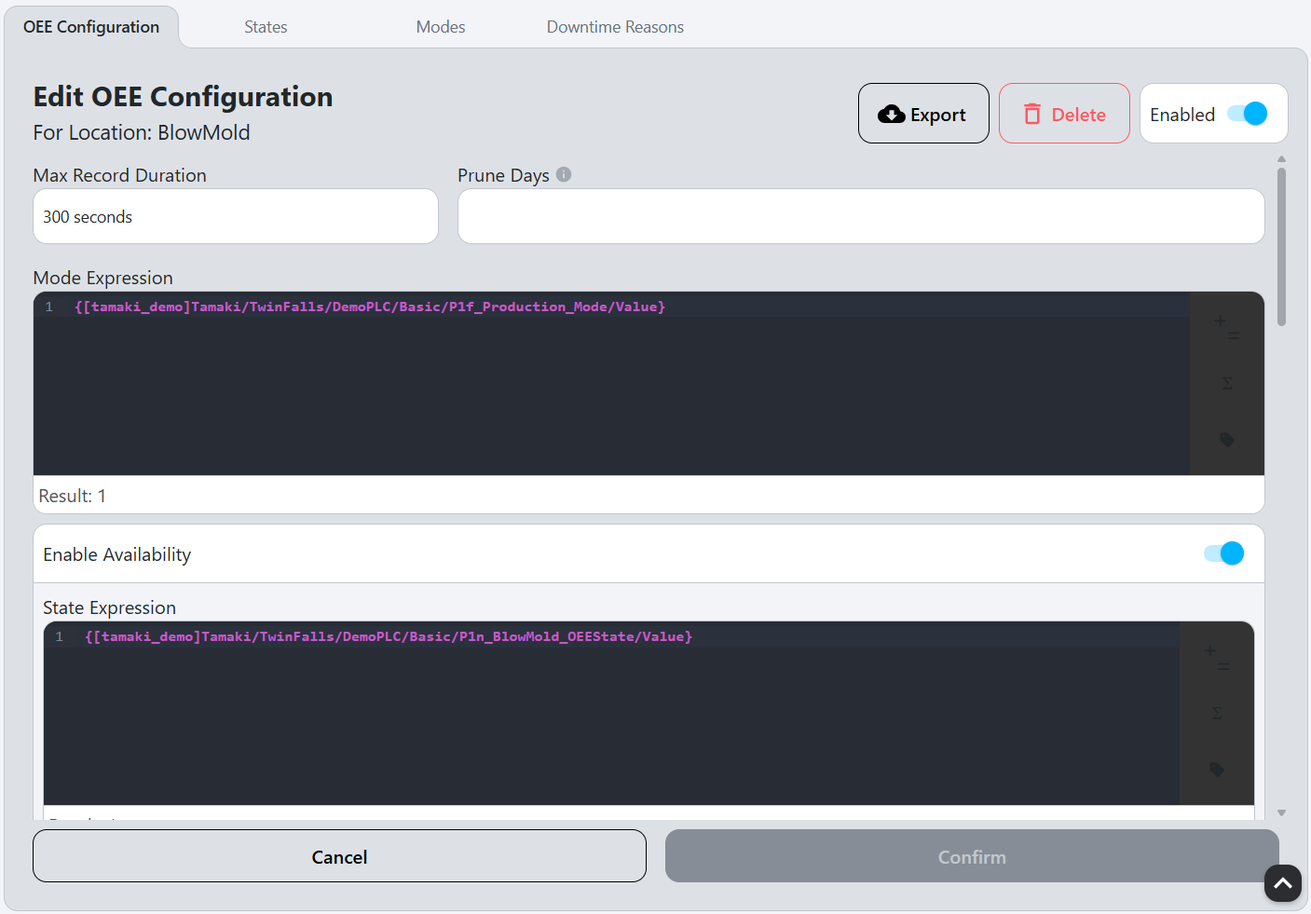
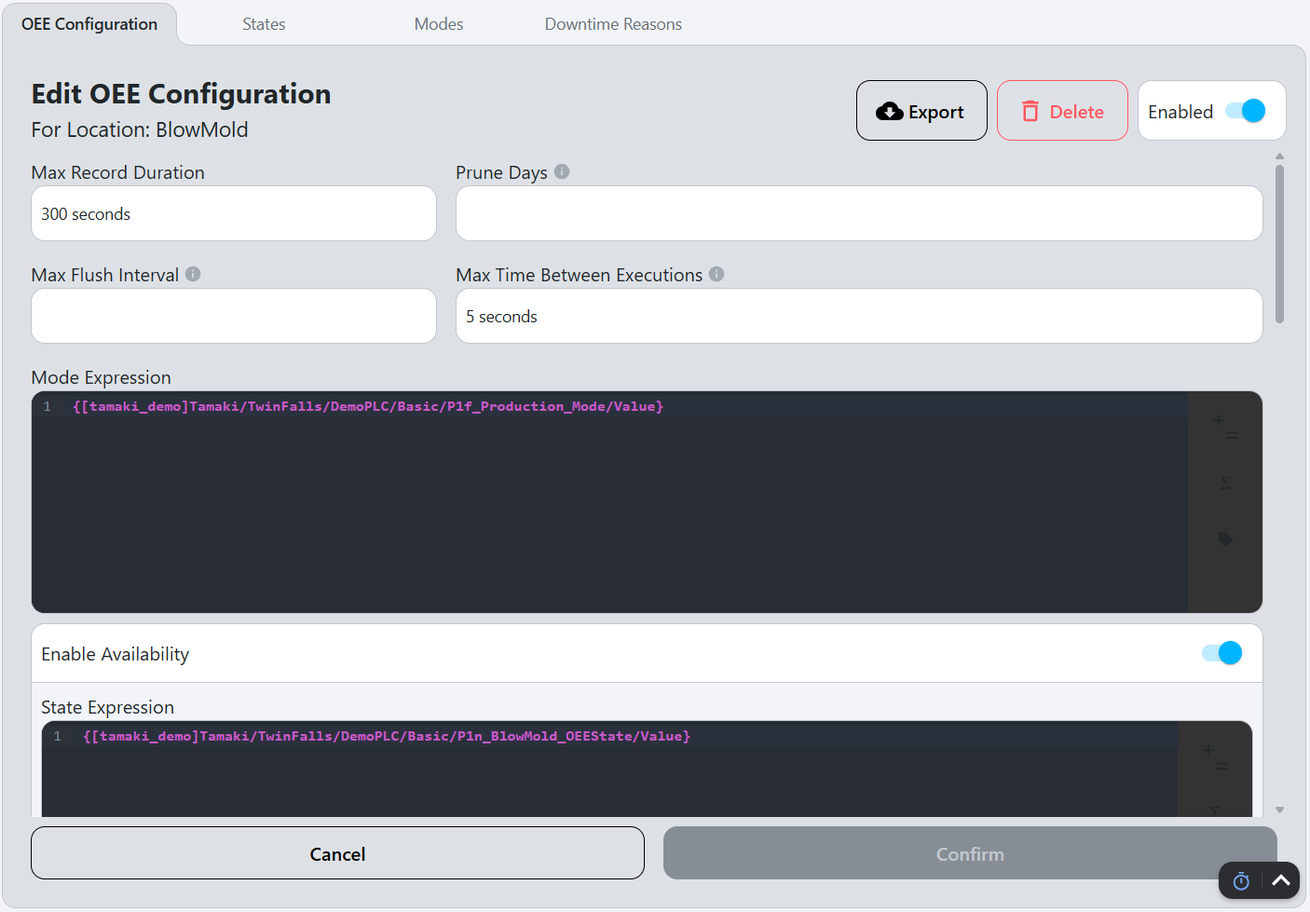
removed mention of DIRECT calc type. added Max Flush Interval and Max Time Between Executions fields to the OEE user guide.

diff --git a/docs/appendix/script-api/inventory-operation-script-api/save-inventory-operation.md b/docs/appendix/script-api/inventory-operation-script-api/save-inventory-operation.md
@@ -18,52 +18,52 @@ system.mes.inventory.operation.saveInventoryOperation(**inventory_operation_data
 
 ## Parameters
 
-| Parameter                         | Type            | Description                                                                                                        |
-| --------------------------------- | --------------- | ------------------------------------------------------------------------------------------------------------------ |
-| `operationId`                     | `String` (ULID) | The ULID of the operation associated with this inventory operation.                                                |
-| `operationName`                   | `String`        | The name of the operation associated with this inventory operation.                                                |
-| `name`                            | `String`        | The name of the inventory operation.                                                                               |
-| `status`                          | `String`        | The status of the inventory operation.                                                                             |
-| `currentRecordId`                 | `String` (ULID) | The ULID of the current inventory lot record associated with this inventory operation.                             |
-| `operationType`                   | `String`        | The type of operation record for this inventory operation.                                                         |
-| `triggerSource`                   | `String`        | The ways that the various inventory operations can trigger.                                                        |
-| `startTriggerExpression`          | `String`        | The Ignition expression to trigger the start of the transfer of materials.                                         |
-| `startTriggerType`                | `String`        | The trigger type when starting the transfer of materials.                                                          |
-| `stopTriggerExpression`           | `String`        | The Ignition expression to trigger the end of the transfer of materials.                                           |
-| `stopTriggerType`                 | `String`        | The trigger type when stopping the transfer of materials.                                                          |
-| `sourceLocationId`                | `String` (ULID) | The ULID of the location for movement source.                                                                      |
-| `sourceLocationPath`              | `String`        | The path of the location for movement source.                                                                      |
-| `destinationLocationId`           | `String` (ULID) | The ULID of the location for movement destination.                                                                 |
-| `destinationLocationPath`         | `String`        | The path of the location for movement destination.                                                                 |
-| `materialSource`                  | `String`        | The strategy used for resolving material ID for an operation.                                                      |
-| `materialId`                      | `String` (ULID) | The ULID of the material associated with the inventory operation.                                                  |
-| `materialPath`                    | `String`        | The path of the material associated with the inventory operation.                                                  |
-| `materialExpression`              | `String`        | The Ignition expression for the material associated with this inventory operation.                                 |
-| `primaryLotResolutionStrategy`    | `String`        | The resolution strategy to get the primary lot code.                                                               |
-| `secondaryLotResolutionStrategy`  | `String`        | The resolution strategy to get the secondary lot code.                                                             |
-| `primaryLotCodeExpression`        | `String`        | The Ignition expression to specify the primary lot code.                                                           |
-| `secondaryLotCodeExpression`      | `String`        | The Ignition expression to specify the secondary lot code.                                                         |
-| `createLotIfNotFound`             | `Boolean`       | Indicates if a lot should be created if it doesn't exist. Only used if operationType is CONSUME.                   |
-| `inventoryNameResolutionStrategy` | `String`        | The resolution strategy to get the inventory name.                                                                 |
-| `inventoryName`                   | `String`        | The name of the inventory associated with the inventory operation.                                                 |
-| `inventoryNameExpression`         | `String`        | The Ignition expression to specify the inventory name.                                                             |
-| `quantitySource`                  | `String`        | The source of the quantity of an inventory operation.                                                              |
-| `quantityExpression`              | `String`        | The Ignition expression to specify the quantity.                                                                   |
-| `quantityCalcType`                | `String`        | The calculation type for quantity. Only used if quantitySource is EXPRESSION.                                      |
-| `quantityOverflowValue`           | `String`        | The overflow value for the quantity. Only used if quantitySource is EXPRESSION and the quantityCalcType is RISING. |
-| `unitOfMeasureId`                 | `String` (ULID) | The ULID of the unit of measure associated with the inventory operation.                                           |
-| `unitOfMeasureName`               | `String`        | The name of the unit of measure associated with the inventory operation.                                           |
-| `unitOfMeasureResolutionStrategy` | `String`        | The source of the unit of measure associated with the inventory operation.                                         |
-| `reasonCodeId`                    | `String` (ULID) | The ULID of the reason code associated with the inventory operation.                                               |
-| `reasonCodeName`                  | `String`        | The name of the reason code associated with the inventory operation.                                               |
-| `incrementProductionOrderCount`   | `Boolean`       | Indicates if the production order quantity should be updated if we are shipping or producing material.             |
-| `flushIntervalMillis`             | `Integer`       | The flush interval in milliseconds.                                                                                |
-| `id`                              | `String` (ULID) | The ULID of the inventory operation (optional, used for updating an existing inventory operation).                 |
-| `notes`                           | `String`        | Notes related to the inventory operation.                                                                          |
-| `enabled`                         | `Boolean`       | Indicates if the inventory operation is active and enabled.                                                        |
-| `spare1`                          | `String`        | Additional field for user-defined context.                                                                         |
-| `spare2`                          | `String`        | Additional field for user-defined context.                                                                         |
-| `spare3`                          | `String`        | Additional field for user-defined context.                                                                         |
+| Parameter                         | Type            | Description                                                                                                       |
+|-----------------------------------|-----------------|-------------------------------------------------------------------------------------------------------------------|
+| `operationId`                     | `String` (ULID) | The ULID of the operation associated with this inventory operation.                                               |
+| `operationName`                   | `String`        | The name of the operation associated with this inventory operation.                                               |
+| `name`                            | `String`        | The name of the inventory operation.                                                                              |
+| `status`                          | `String`        | The status of the inventory operation.                                                                            |
+| `currentRecordId`                 | `String` (ULID) | The ULID of the current inventory lot record associated with this inventory operation.                            |
+| `operationType`                   | `String`        | The type of operation record for this inventory operation.                                                        |
+| `triggerSource`                   | `String`        | The ways that the various inventory operations can trigger.                                                       |
+| `startTriggerExpression`          | `String`        | The Ignition expression to trigger the start of the transfer of materials.                                        |
+| `startTriggerType`                | `String`        | The trigger type when starting the transfer of materials.                                                         |
+| `stopTriggerExpression`           | `String`        | The Ignition expression to trigger the end of the transfer of materials.                                          |
+| `stopTriggerType`                 | `String`        | The trigger type when stopping the transfer of materials.                                                         |
+| `sourceLocationId`                | `String` (ULID) | The ULID of the location for movement source.                                                                     |
+| `sourceLocationPath`              | `String`        | The path of the location for movement source.                                                                     |
+| `destinationLocationId`           | `String` (ULID) | The ULID of the location for movement destination.                                                                |
+| `destinationLocationPath`         | `String`        | The path of the location for movement destination.                                                                |
+| `materialSource`                  | `String`        | The strategy used for resolving material ID for an operation.                                                     |
+| `materialId`                      | `String` (ULID) | The ULID of the material associated with the inventory operation.                                                 |
+| `materialPath`                    | `String`        | The path of the material associated with the inventory operation.                                                 |
+| `materialExpression`              | `String`        | The Ignition expression for the material associated with this inventory operation.                                |
+| `primaryLotResolutionStrategy`    | `String`        | The resolution strategy to get the primary lot code.                                                              |
+| `secondaryLotResolutionStrategy`  | `String`        | The resolution strategy to get the secondary lot code.                                                            |
+| `primaryLotCodeExpression`        | `String`        | The Ignition expression to specify the primary lot code.                                                          |
+| `secondaryLotCodeExpression`      | `String`        | The Ignition expression to specify the secondary lot code.                                                        |
+| `createLotIfNotFound`             | `Boolean`       | Indicates if a lot should be created if it doesn't exist. Only used if operationType is CONSUME.                  |
+| `inventoryNameResolutionStrategy` | `String`        | The resolution strategy to get the inventory name.                                                                |
+| `inventoryName`                   | `String`        | The name of the inventory associated with the inventory operation.                                                |
+| `inventoryNameExpression`         | `String`        | The Ignition expression to specify the inventory name.                                                            |
+| `quantitySource`                  | `String`        | The source of the quantity of an inventory operation.                                                             |
+| `quantityExpression`              | `String`        | The Ignition expression to specify the quantity.                                                                  |
+| `quantityCalcType`                | `String`        | The calculation type for quantity. Only used if quantitySource is EXPRESSION.                                     |
+| `quantityOverflowValue`           | `String`        | The overflow value for the quantity. Only used if quantitySource is EXPRESSION and the quantityCalcType is DELTA. |
+| `unitOfMeasureId`                 | `String` (ULID) | The ULID of the unit of measure associated with the inventory operation.                                          |
+| `unitOfMeasureName`               | `String`        | The name of the unit of measure associated with the inventory operation.                                          |
+| `unitOfMeasureResolutionStrategy` | `String`        | The source of the unit of measure associated with the inventory operation.                                        |
+| `reasonCodeId`                    | `String` (ULID) | The ULID of the reason code associated with the inventory operation.                                              |
+| `reasonCodeName`                  | `String`        | The name of the reason code associated with the inventory operation.                                              |
+| `incrementProductionOrderCount`   | `Boolean`       | Indicates if the production order quantity should be updated if we are shipping or producing material.            |
+| `flushIntervalMillis`             | `Integer`       | The flush interval in milliseconds.                                                                               |
+| `id`                              | `String` (ULID) | The ULID of the inventory operation (optional, used for updating an existing inventory operation).                |
+| `notes`                           | `String`        | Notes related to the inventory operation.                                                                         |
+| `enabled`                         | `Boolean`       | Indicates if the inventory operation is active and enabled.                                                       |
+| `spare1`                          | `String`        | Additional field for user-defined context.                                                                        |
+| `spare2`                          | `String`        | Additional field for user-defined context.                                                                        |
+| `spare3`                          | `String`        | Additional field for user-defined context.                                                                        |
 
 ## Returns
 

diff --git a/docs/appendix/script-api/inventory-operation-script-api/validate-inventory-operation.md b/docs/appendix/script-api/inventory-operation-script-api/validate-inventory-operation.md
@@ -19,52 +19,52 @@ system.mes.inventory.operation.validateInventoryOperation(**inventory_operation_
 
 ## Parameters
 
-| Parameter                         | Type            | Description                                                                                                        |
-| --------------------------------- | --------------- | ------------------------------------------------------------------------------------------------------------------ |
-| `operationId`                     | `String` (ULID) | The ULID of the operation associated with this inventory operation.                                                |
-| `operationName`                   | `String`        | The name of the operation associated with this inventory operation.                                                |
-| `name`                            | `String`        | The name of the inventory operation.                                                                               |
-| `status`                          | `String`        | The status of the inventory operation.                                                                             |
-| `currentRecordId`                 | `String` (ULID) | The ULID of the current inventory lot record associated with this inventory operation.                             |
-| `operationType`                   | `String`        | The type of operation record for this inventory operation.                                                         |
-| `triggerSource`                   | `String`        | The ways that the various inventory operations can trigger.                                                        |
-| `startTriggerExpression`          | `String`        | The Ignition expression to trigger the start of the transfer of materials.                                         |
-| `startTriggerType`                | `String`        | The trigger type when starting the transfer of materials.                                                          |
-| `stopTriggerExpression`           | `String`        | The Ignition expression to trigger the end of the transfer of materials.                                           |
-| `stopTriggerType`                 | `String`        | The trigger type when stopping the transfer of materials.                                                          |
-| `sourceLocationId`                | `String` (ULID) | The ULID of the location for movement source.                                                                      |
-| `sourceLocationPath`              | `String`        | The path of the location for movement source.                                                                      |
-| `destinationLocationId`           | `String` (ULID) | The ULID of the location for movement destination.                                                                 |
-| `destinationLocationPath`         | `String`        | The path of the location for movement destination.                                                                 |
-| `materialSource`                  | `String`        | The strategy used for resolving material ID for an operation.                                                      |
-| `materialId`                      | `String` (ULID) | The ULID of the material associated with the inventory operation.                                                  |
-| `materialPath`                    | `String`        | The path of the material associated with the inventory operation.                                                  |
-| `materialExpression`              | `String`        | The Ignition expression for the material associated with this inventory operation.                                 |
-| `primaryLotResolutionStrategy`    | `String`        | The resolution strategy to get the primary lot code.                                                               |
-| `secondaryLotResolutionStrategy`  | `String`        | The resolution strategy to get the secondary lot code.                                                             |
-| `primaryLotCodeExpression`        | `String`        | The Ignition expression to specify the primary lot code.                                                           |
-| `secondaryLotCodeExpression`      | `String`        | The Ignition expression to specify the secondary lot code.                                                         |
-| `createLotIfNotFound`             | `Boolean`       | Indicates if a lot should be created if it doesn't exist. Only used if operationType is CONSUME.                   |
-| `inventoryNameResolutionStrategy` | `String`        | The resolution strategy to get the inventory name.                                                                 |
-| `inventoryName`                   | `String`        | The name of the inventory associated with the inventory operation.                                                 |
-| `inventoryNameExpression`         | `String`        | The Ignition expression to specify the inventory name.                                                             |
-| `quantitySource`                  | `String`        | The source of the quantity of an inventory operation.                                                              |
-| `quantityExpression`              | `String`        | The Ignition expression to specify the quantity.                                                                   |
-| `quantityCalcType`                | `String`        | The calculation type for quantity. Only used if quantitySource is EXPRESSION.                                      |
-| `quantityOverflowValue`           | `String`        | The overflow value for the quantity. Only used if quantitySource is EXPRESSION and the quantityCalcType is RISING. |
-| `unitOfMeasureId`                 | `String` (ULID) | The ULID of the unit of measure associated with the inventory operation.                                           |
-| `unitOfMeasureName`               | `String`        | The name of the unit of measure associated with the inventory operation.                                           |
-| `unitOfMeasureResolutionStrategy` | `String`        | The source of the unit of measure associated with the inventory operation.                                         |
-| `reasonCodeId`                    | `String` (ULID) | The ULID of the reason code associated with the inventory operation.                                               |
-| `reasonCodeName`                  | `String`        | The name of the reason code associated with the inventory operation.                                               |
-| `incrementProductionOrderCount`   | `Boolean`       | Indicates if the production order quantity should be updated if we are shipping or producing material.             |
-| `flushIntervalMillis`             | `Integer`       | The flush interval in milliseconds.                                                                                |
-| `id`                              | `String` (ULID) | The ULID of the inventory operation (optional, used for updating an existing inventory operation).                 |
-| `notes`                           | `String`        | Notes related to the inventory operation.                                                                          |
-| `enabled`                         | `Boolean`       | Indicates if the inventory operation is active and enabled.                                                        |
-| `spare1`                          | `String`        | Additional field for user-defined context.                                                                         |
-| `spare2`                          | `String`        | Additional field for user-defined context.                                                                         |
-| `spare3`                          | `String`        | Additional field for user-defined context.                                                                         |
+| Parameter                         | Type            | Description                                                                                                       |
+|-----------------------------------|-----------------|-------------------------------------------------------------------------------------------------------------------|
+| `operationId`                     | `String` (ULID) | The ULID of the operation associated with this inventory operation.                                               |
+| `operationName`                   | `String`        | The name of the operation associated with this inventory operation.                                               |
+| `name`                            | `String`        | The name of the inventory operation.                                                                              |
+| `status`                          | `String`        | The status of the inventory operation.                                                                            |
+| `currentRecordId`                 | `String` (ULID) | The ULID of the current inventory lot record associated with this inventory operation.                            |
+| `operationType`                   | `String`        | The type of operation record for this inventory operation.                                                        |
+| `triggerSource`                   | `String`        | The ways that the various inventory operations can trigger.                                                       |
+| `startTriggerExpression`          | `String`        | The Ignition expression to trigger the start of the transfer of materials.                                        |
+| `startTriggerType`                | `String`        | The trigger type when starting the transfer of materials.                                                         |
+| `stopTriggerExpression`           | `String`        | The Ignition expression to trigger the end of the transfer of materials.                                          |
+| `stopTriggerType`                 | `String`        | The trigger type when stopping the transfer of materials.                                                         |
+| `sourceLocationId`                | `String` (ULID) | The ULID of the location for movement source.                                                                     |
+| `sourceLocationPath`              | `String`        | The path of the location for movement source.                                                                     |
+| `destinationLocationId`           | `String` (ULID) | The ULID of the location for movement destination.                                                                |
+| `destinationLocationPath`         | `String`        | The path of the location for movement destination.                                                                |
+| `materialSource`                  | `String`        | The strategy used for resolving material ID for an operation.                                                     |
+| `materialId`                      | `String` (ULID) | The ULID of the material associated with the inventory operation.                                                 |
+| `materialPath`                    | `String`        | The path of the material associated with the inventory operation.                                                 |
+| `materialExpression`              | `String`        | The Ignition expression for the material associated with this inventory operation.                                |
+| `primaryLotResolutionStrategy`    | `String`        | The resolution strategy to get the primary lot code.                                                              |
+| `secondaryLotResolutionStrategy`  | `String`        | The resolution strategy to get the secondary lot code.                                                            |
+| `primaryLotCodeExpression`        | `String`        | The Ignition expression to specify the primary lot code.                                                          |
+| `secondaryLotCodeExpression`      | `String`        | The Ignition expression to specify the secondary lot code.                                                        |
+| `createLotIfNotFound`             | `Boolean`       | Indicates if a lot should be created if it doesn't exist. Only used if operationType is CONSUME.                  |
+| `inventoryNameResolutionStrategy` | `String`        | The resolution strategy to get the inventory name.                                                                |
+| `inventoryName`                   | `String`        | The name of the inventory associated with the inventory operation.                                                |
+| `inventoryNameExpression`         | `String`        | The Ignition expression to specify the inventory name.                                                            |
+| `quantitySource`                  | `String`        | The source of the quantity of an inventory operation.                                                             |
+| `quantityExpression`              | `String`        | The Ignition expression to specify the quantity.                                                                  |
+| `quantityCalcType`                | `String`        | The calculation type for quantity. Only used if quantitySource is EXPRESSION.                                     |
+| `quantityOverflowValue`           | `String`        | The overflow value for the quantity. Only used if quantitySource is EXPRESSION and the quantityCalcType is DELTA. |
+| `unitOfMeasureId`                 | `String` (ULID) | The ULID of the unit of measure associated with the inventory operation.                                          |
+| `unitOfMeasureName`               | `String`        | The name of the unit of measure associated with the inventory operation.                                          |
+| `unitOfMeasureResolutionStrategy` | `String`        | The source of the unit of measure associated with the inventory operation.                                        |
+| `reasonCodeId`                    | `String` (ULID) | The ULID of the reason code associated with the inventory operation.                                              |
+| `reasonCodeName`                  | `String`        | The name of the reason code associated with the inventory operation.                                              |
+| `incrementProductionOrderCount`   | `Boolean`       | Indicates if the production order quantity should be updated if we are shipping or producing material.            |
+| `flushIntervalMillis`             | `Integer`       | The flush interval in milliseconds.                                                                               |
+| `id`                              | `String` (ULID) | The ULID of the inventory operation (optional, used for updating an existing inventory operation).                |
+| `notes`                           | `String`        | Notes related to the inventory operation.                                                                         |
+| `enabled`                         | `Boolean`       | Indicates if the inventory operation is active and enabled.                                                       |
+| `spare1`                          | `String`        | Additional field for user-defined context.                                                                        |
+| `spare2`                          | `String`        | Additional field for user-defined context.                                                                        |
+| `spare3`                          | `String`        | Additional field for user-defined context.                                                                        |
 
 ## Returns
 

diff --git a/docs/user-guides/oee-guide/setup.md b/docs/user-guides/oee-guide/setup.md
@@ -30,26 +30,25 @@ description: "OEE Setup Configuration"
 
 1. Select a location from the dropdown menu to configure OEE settings for that specific location.
 2. Set the [Max Record Duration](#max-record-duration) and [Prune Days](#prune-days).
-3. Fill out the [Mode Expression](#mode-expression).
-4. Configure the [Availability](#availability) settings:
+3. Set the [Max Flush Interval](#max-flush-interval) and the [Max Time Between Executions](#max-time-between-executions).
+4. Fill out the [Mode Expression](#mode-expression).
+5. Configure the [Availability](#availability) settings:
    - [Enable Availability](#enable-availability).
    - Fill out the [State Expression](#state-expression).
    - Configure the [Downtime Reason Source](#downtime-reason-source) and [Downtime Reason Expression](#downtime-reason-expression).
-5. Configure the [Performance](#performance) settings:
+6. Configure the [Performance](#performance) settings:
    - [Enable Performance](#enable-performance).
    - Fill out the [Production Count Unit of Measure](#production-count-unit-of-measure).
    - Fill out the [Production Rate Time Unit](#production-rate-time-unit).
    - Fill out the [Production Count Expression](#production-count-expression).
-   - Select the [Production Count Calculation Type](#production-count-calculation-type).
    - Set the [Production Count Overflow Value](#production-count-overflow-value).
    - Configure the [Standard Rate Source](#standard-rate-source) and set the [Standard Rate](#standard-rate-uomtime-unit).
-6. Configure the [Quality](#quality) settings:
+7. Configure the [Quality](#quality) settings:
     - [Enable Quality](#enable-quality).
     - Fill out the [Waste Count Expression](#waste-count-expression).
-    - Select the [Waste Count Calculation Type](#waste-count-calculation-type).
     - Set the [Waste Count Overflow Value](#waste-count-overflow-value).
-7. Configure the [Production Order Source](#production-order-source).
-8. Save the configuration by clicking the `Confirm` button at the bottom of the screen.
+8. Configure the [Production Order Source](#production-order-source).
+9. Save the configuration by clicking the `Confirm` button at the bottom of the screen.
 
 ### OEE Configuration Fields
 
@@ -79,6 +78,14 @@ If none of those events occur within the [Max Record Duration](#max-record-durat
 #### Prune Days
 
 Number of days to retain OEE records in the database before deleting. (If blank, records will be kept indefinitely)
+
+#### Max Flush Interval
+
+Maximum time oee data being flushed into the database from the data collection service.
+
+#### Max Time Between Executions
+
+Maximum number of seconds between data collection evaluating data.
 
 #### [Mode](terms-and-definitions#mode) Expression
 
@@ -124,14 +131,8 @@ For example, if this field is set to `Minutes`, and the [Production Count Unit o
 
 This is where the production count value is specified for the location [Production Count](terms-and-definitions#production-count). This can be a static value but will most likely be a tag binding to reflect the PLC's value for the current production count at the machine [Expression Field](terms-and-definitions#expression-field).
 
-##### Production Count Calculation Type
-
-Opens a dropdown with the following options:
-- **Direct:** The production count will be calculated directly from the value in the [Production Count Expression](#production-count-expression) field.
-- **Delta:** The production count will be calculated as the difference between the current value and the previous value. This uses the [Production Count Overflow Value](#production-count-overflow-value) to know when the value has rolled over back to 0. This only handles a maximum of 1 rollover between evaluations.
-
 ##### Production Count Overflow Value
-The tag capturing production count will roll over to 0 when it reaches this value. This is used to calculate the production count when then [Production Count Calculation Type](#production-count-calculation-type) is set to `delta`.
+The tag capturing production count will roll over to 0 when it reaches this value. This is used to calculate the production count.
 
 ##### Standard Rate Source
 
@@ -157,15 +158,9 @@ Enables quality tracking for the OEE Records. This allows the system to track th
 
 The [Expression Field](terms-and-definitions#expression-field) where the PLC tag for the [Waste Count](terms-and-definitions#waste-count) of the location is bound to the OEE model.
 
-##### Waste Count Calculation Type
-
-Opens a dropdown with the following options:
-- **Direct:** The waste count will be calculated directly from the value in the [Waste Count Expression](#waste-count-expression) field.
-- **Delta:**  The waste count will be calculated as the difference between the current value and the previous value. This uses the [Waste Count Overflow Value](#waste-count-overflow-value) to know when the value has rolled over back to 0. This only handles a maximum of 1 rollover between evaluations.
-
 ##### Waste Count Overflow Value
 
-The tag capturing waste count will roll over to 0 when it reaches this value. This is used to calculate the waste count when then [Waste Count Calculation Type](#waste-count-calculation-type) is set to `delta`.
+The tag capturing waste count will roll over to 0 when it reaches this value. This is used to calculate the waste count.
 
 #### Production Order
 

diff --git a/docs/appendix/data-model/inventory-model/inventory-operation.md b/docs/appendix/data-model/inventory-model/inventory-operation.md
@@ -40,9 +40,9 @@ with sample data where applicable.
 | `secondary_lot_resolution_strategy`   | `String` (Enum) | Strategy used to get the secondary lot code, as defined by the **LotResolutionStrategy** enum.                                                             | `AUTO_GENERATE`                                                                                                |
 | `material_expression`                 | `String`        | The Ignition expression for materials. Must return the id of the material.                                                                                 | See [Ignition Docs](https://www.docs.inductiveautomation.com/docs/8.1/platform/expression-language-and-syntax) |
 | `material_source`                     | `String` (Enum) | Strategy used for resolving the material id for an operation, as defined by the **MaterialResolutionStrategy** enum.                                       | `STATIC`                                                                                                       |
-| `quantity_calc_type`                  | `String` (Enum) | Calculation type for quantity, as defined by the **CountCalcType** enum. Only used if quantitySource is EXPRESSION.                                        | `DIRECT`                                                                                                       |
+| `quantity_calc_type`                  | `String` (Enum) | Calculation type for quantity, as defined by the **CountCalcType** enum. Only used if quantitySource is EXPRESSION.                                        | `DELTA`                                                                                                        |
 | `quantity_expression`                 | `String`        | The Ignition expression for quantity.                                                                                                                      | See [Ignition Docs](https://www.docs.inductiveautomation.com/docs/8.1/platform/expression-language-and-syntax) |
-| `quantity_overflow_value`             | `Double`        | Overflow value for the quantity. Only used if quantitySource is EXPRESSION and the quantityCalcType is RISING.                                             | `100.0`                                                                                                        |
+| `quantity_overflow_value`             | `Double`        | Overflow value for the quantity. Only used if quantitySource is EXPRESSION and the quantityCalcType is DELTA.                                              | `100.0`                                                                                                        |
 | `quantity_source`                     | `String` (Enum) | Source of the quantity of an inventory operation, as defined by the **QuantitySource** enum.                                                               | `EXPRESSION`                                                                                                   |
 | `start_trigger_expression`            | `String`        | The Ignition expression to trigger the start of the transfer of materials.                                                                                 | See [Ignition Docs](https://www.docs.inductiveautomation.com/docs/8.1/platform/expression-language-and-syntax) |
 | `start_trigger_type`                  | `String` (Enum) | Trigger type when starting the transfer of materials, as defined by the **TriggerType** enum.                                                              | `RISING_EDGE`                                                                                                  |
@@ -123,7 +123,7 @@ by the **MaterialResolutionStrategy** enum, with possible values:
 ### `quantity_calc_type`
 
 Calculation type for quantity, as defined by the **CountCalcType** enum,
-with options such as `DIRECT`, and `RISING`. Only used if quantitySource is EXPRESSION.
+The only option is `DELTA`. Only used if quantitySource is `EXPRESSION`.
 
 ### `quantity_expression`
 
@@ -132,7 +132,7 @@ See [Ignition Docs](https://www.docs.inductiveautomation.com/docs/8.1/platform/e
 
 ### `quantity_overflow_value`
 
-Overflow value for the quantity. Only used if quantitySource is EXPRESSION and the quantityCalcType is RISING.
+Overflow value for the quantity. Only used if quantitySource is `EXPRESSION` and the quantityCalcType is `DELTA`.
 
 ### `quantity_source`
 

diff --git a/docs/appendix/script-api/inventory-operation-script-api/new-inventory-operation.md b/docs/appendix/script-api/inventory-operation-script-api/new-inventory-operation.md
@@ -26,7 +26,7 @@ system.mes.inventory.operation.newInventoryOperation()
 Returns a JSON representation of the newly created Inventory Operation object. The following is a list of keys and default values:
 
 | Key                               | Default Value   |
-| --------------------------------- | --------------- |
+|-----------------------------------|-----------------|
 | `operationId`                     | `null`          |
 | `operationName`                   | `null`          |
 | `name`                            | `null`          |
@@ -56,7 +56,7 @@ Returns a JSON representation of the newly created Inventory Operation object. T
 | `inventoryNameExpression`         | `null`          |
 | `quantitySource`                  | `EXPRESSION`    |
 | `quantityExpression`              | `null`          |
-| `quantityCalcType`                | `DIRECT`        |
+| `quantityCalcType`                | `DELTA`         |
 | `quantityOverflowValue`           | `null`          |
 | `unitOfMeasureId`                 | `null`          |
 | `unitOfMeasureName`               | `null`          |
